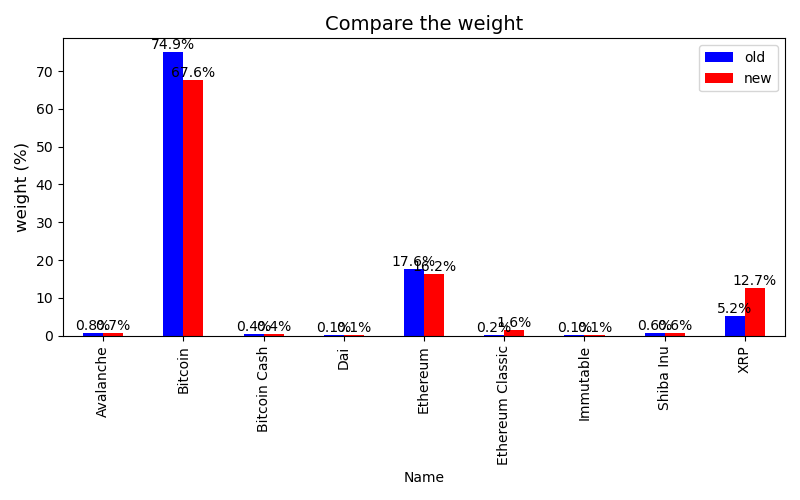
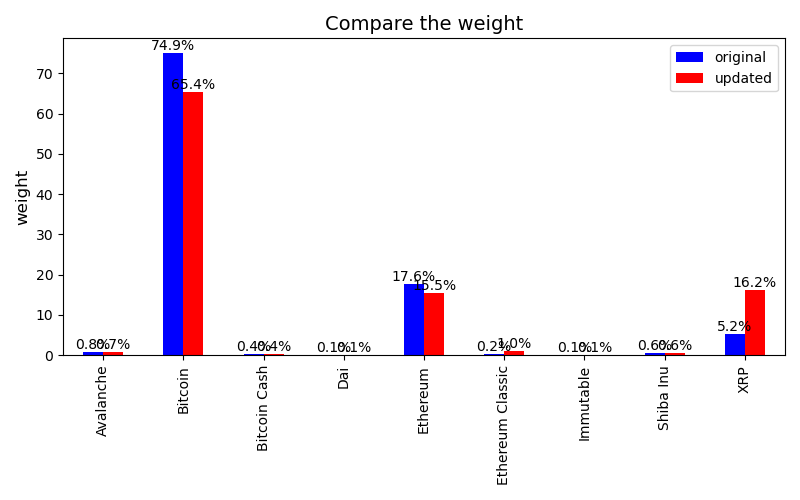
update readme

diff --git a/src/black_litterman.py b/src/black_litterman.py
@@ -79,7 +79,7 @@ class black_litterman:
 
         # 事後ウェイトを求める
         self.posterior_weight_array = (
-            np.linalg.inv(self.delta * self.posterior_Sigma) @ self.posterior_return
+            np.linalg.inv(self.delta * self.Sigma_array) @ self.posterior_return
         )
         self.posterior_weight_array /= sum(self.posterior_weight_array)
 
@@ -98,8 +98,8 @@ class black_litterman:
         """
         # 重みのDataFrameを結合する
         merged_df = pd.merge(
-            self.market_weight_df.rename({"weight": "old"}, axis=1),
-            self.posterior_weight_df.rename({"weight": "new"}, axis=1),
+            self.market_weight_df.rename({"weight": "original"}, axis=1),
+            self.posterior_weight_df.rename({"weight": "updated"}, axis=1),
             on="Name",
         )
         merged_df.set_index("Name", inplace=True)
@@ -112,7 +112,8 @@ class black_litterman:
 
         # タイトルとY軸ラベルを追加
         ax.set_title("Compare the weight", fontsize=14)
-        ax.set_ylabel("weight (%)", fontsize=12)
+        ax.set_ylabel("weight", fontsize=12)
+        ax.set_xlabel("", fontsize=12)
 
         # データラベルを追加
         for container in ax.containers:

diff --git a/README.md b/README.md
@@ -1,3 +1,8 @@
 # Diversify the Crypto Coin Portfolio using Black-Litterman
-ref:
-https://www.nam.co.jp/market/column/quantstopics/2024/240802.html
+- Description
+    Apply Black-litterman model to crypto assets portfolio and confirm the weight refer to original market weight.
+
+- References:
+    - Mednis(2022). Portfolio optimization with crypto assets.https://umu.diva-portal.org/smash/get/diva2:1672778/FULLTEXT01.pdf
+    - Platanakis, E. and Urquhart, A (2019) . Portfolio management with cryptocurrencies: the role of estimation risk.https://www.sciencedirect.com/science/article/abs/pii/S0165176519300254
+    - ニッセイアセットマネジメント株式会社, ブラックリッターマンモデルを用いたポートフォリオ最適化について. https://www.nam.co.jp/market/column/quantstopics/2024/240802.html

diff --git a/data/views.md b/data/views.md
@@ -5,6 +5,6 @@
     - Bitcoinは86%
     - Etherumは57%
 - view2
-    XRPの年率リターンは140%になるという想定
-    （日次リターンベースで140% / 365 = 0.003835616）
-    ヒストリカルベースでも140%
+    XRPの年率リターンは200%になるという想定
+    （日次リターンベースで200% / 365 = 0.005479）
+    ヒストリカルベースでは140%
